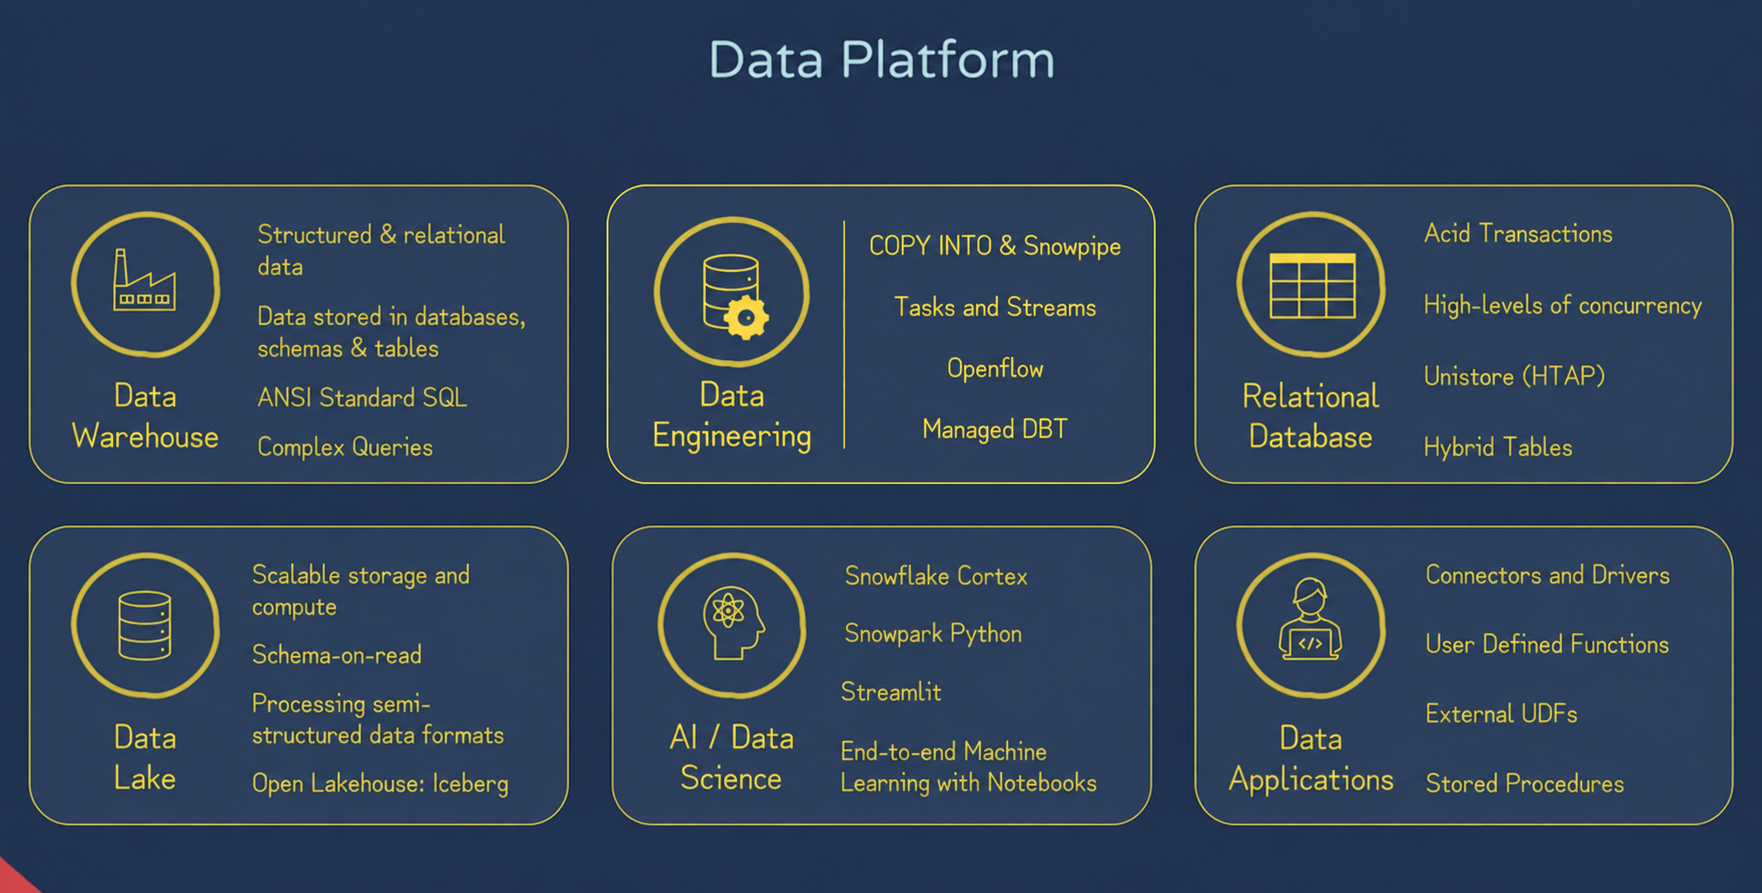
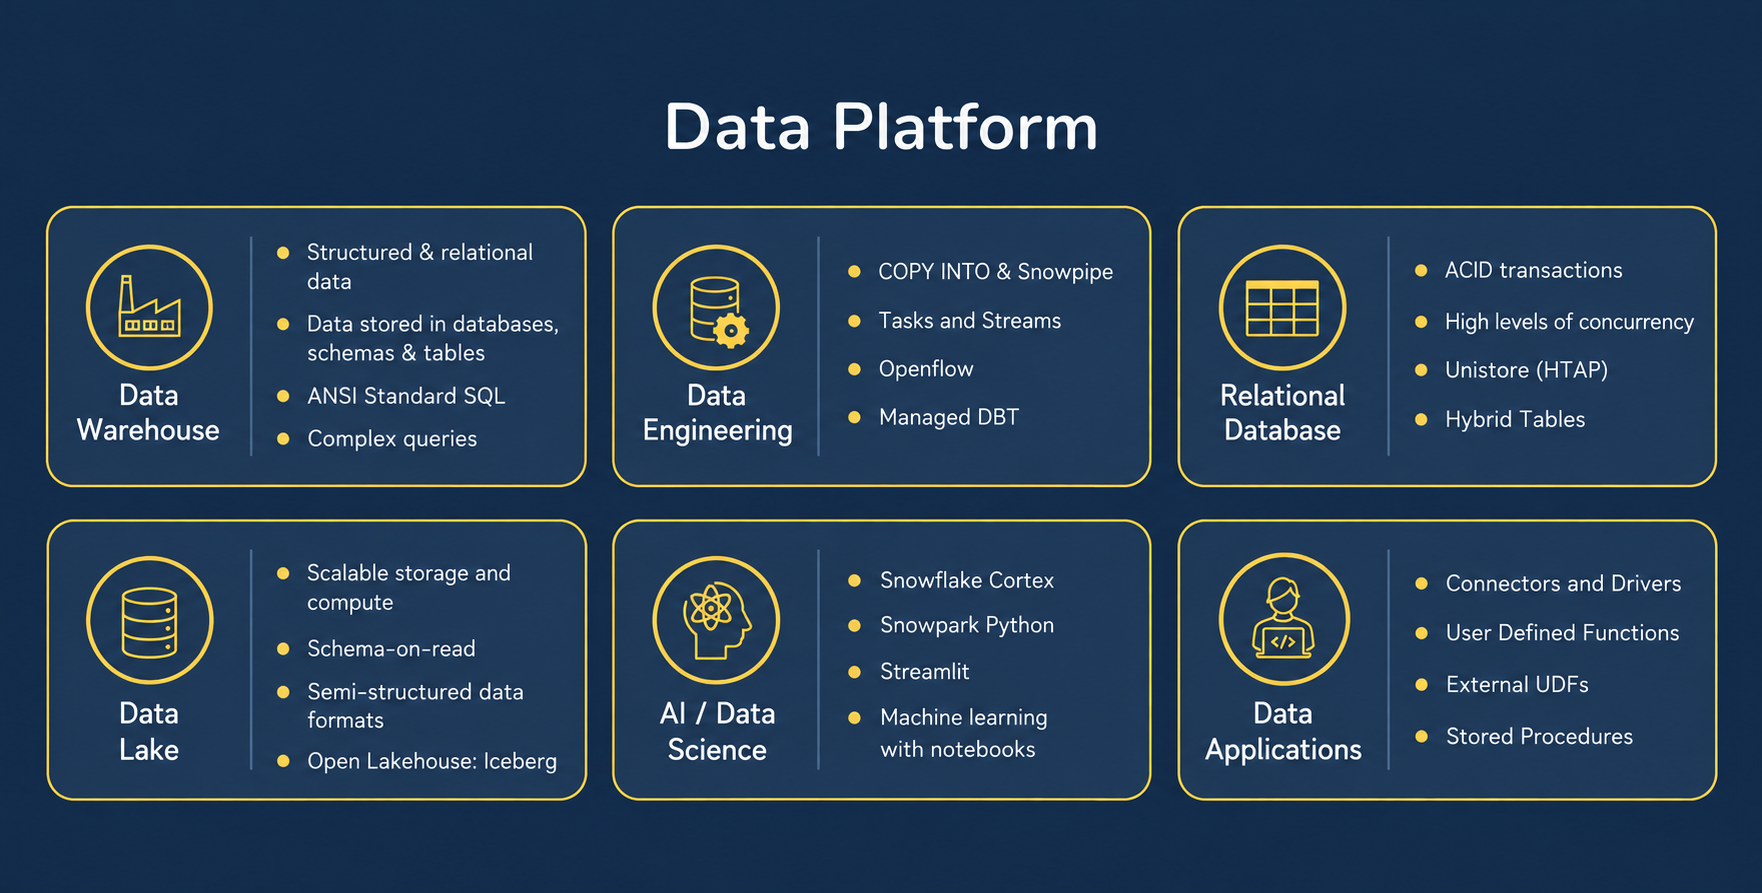
After Architecture

Changed region(s): [[0.0, 0.0302, 0.9989, 0.5442], [0.0, 0.5745, 0.9989, 0.9373], [0.0, 0.9675, 0.0312, 1.0]]

diff --git a/1-Snowflake-AI-Data-Cloud-Features-and-Architectures/notes.md b/1-Snowflake-AI-Data-Cloud-Features-and-Architectures/notes.md
@@ -1,35 +1,50 @@
 # Snowflake AI Data Cloud Features and Architectures
 
-## What is snowflake?
+## What Is Snowflake?
 
-- Traditionally data warehouse; now cloud AI platform.
+- Snowflake began as a cloud data warehouse and has evolved into a cloud data platform for analytics, data engineering, data applications, and AI workloads.
 
- ![what is snowflake?](../img/what_is_snowflake.png)
+![What is Snowflake?](../img/what_is_snowflake.png)
 
+## Multi-Cluster Shared Data Architecture
 
+- Two common data-architecture patterns are **shared disk** and **shared nothing**.
+
+![Shared disk vs. shared nothing](../img/Shared_disk_vs_Shared_nothing.png)
+
+### Shared Disk
+
+- **Advantages:** Simple to manage and provides a single shared source of data.
+- **Limitations:** Shared storage can become a bottleneck and may introduce network latency or limit scalability.
+
+### Shared Nothing
+
+- **Advantages:** Each node owns its compute and local storage, which can reduce network traffic and scale out effectively.
+- **Limitations:** Storage and compute are tightly coupled, which makes data management and rebalancing more complex.
+
+![Multi-cluster shared-data architecture](../img/Multi-cluster-shared-data-architecture.png)
 
 ## Table Types
 
-
-| Table Types | Time Travel | Fail-Safe | Usage | Existence |
-|-----| -----| -----| -----| -----|
-| Permanent | 90 days | yes | Default table type | Until we drop |
-| Temporary | 1 day | no | Used for transitory data | Persist for duration of the session | 
-| Transient | 1 day | no | - | Exists until explicity drop |
-| External | no | no | Query data outside of snowflake (eg. S3) & read-only | - |
+| Table Type | Time Travel | Fail-safe | Typical Use | Lifetime |
+| --- | --- | --- | --- | --- |
+| Permanent | Configurable; up to 90 days, depending on the account edition | Yes | Default choice for persistent business data | Until explicitly dropped |
+| Temporary | Up to 1 day | No | Session-specific, temporary work | Ends when the session ends |
+| Transient | Up to 1 day | No | Data that does not require fail-safe protection | Until explicitly dropped |
+| External | No | No | Read-only access to data stored outside Snowflake, such as Amazon S3 | Defined until explicitly dropped |
 
 ## View Types
 
-**Standard** 
+### Standard Views
 
-- Does not cost storage cost.
-- Used to restrict the content of the table.
+- Store the query definition, not its result set.
+- Help simplify complex queries and restrict the rows or columns users can access.
 
-**Materialized Views**
+### Materialized Views
 
-- Stores the result of the query and periodically refresh it.
-- Incurs the cost as serverless features.
+- Store precomputed query results and refresh them automatically.
+- Incur storage and maintenance costs; Snowflake uses serverless compute for automatic maintenance.
 
-Both views can be secured by adding `secure` keyword in the definition.
+Both standard and materialized views can be made secure by adding the `SECURE` keyword to their definitions.
 
 ## Worksheets and Workspaces
